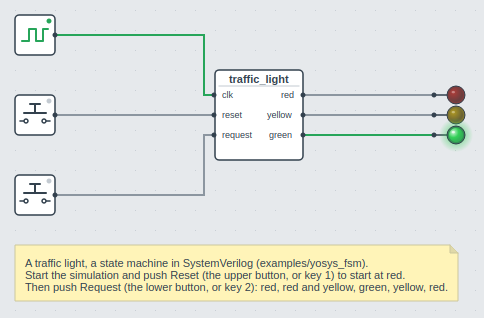
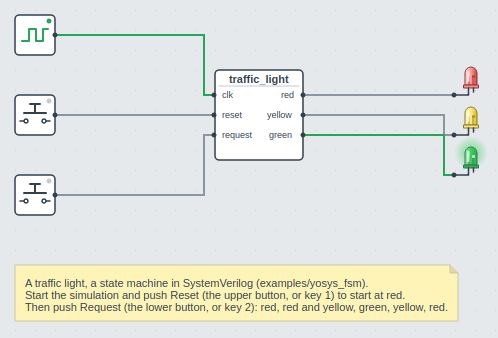
Draw an LED standing, seen from the side, like a real 5 mm LED
A round dot didn't look like an LED. Now it has a dome, a rim and legs, the
post and the chip show inside, and it is pale when off and bright with a
glow when lit. The examples are lined up with its input again, and the
traffic light stands as a column.

Changed region(s): [[0.0, 0.0283, 0.9917, 0.6792], [0.031, 0.7642, 0.9607, 0.9623]]

diff --git a/src/digsim/app/gui_objects/_theme.py b/src/digsim/app/gui_objects/_theme.py
@@ -12,7 +12,16 @@ symbol only. Components that are a device, like a switch or a display, have a wh
 from __future__ import annotations
 
 from PySide6.QtCore import QPointF, QRectF, Qt
-from PySide6.QtGui import QBrush, QColor, QFont, QPainter, QPainterPath, QPen, QRadialGradient
+from PySide6.QtGui import (
+    QBrush,
+    QColor,
+    QFont,
+    QLinearGradient,
+    QPainter,
+    QPainterPath,
+    QPen,
+    QRadialGradient,
+)
 
 
 # Lines and text
@@ -103,41 +112,60 @@ def dim(color: QColor, factor: float = 0.3, toward: QColor | None = None) -> QCo
     )
 
 
-def paint_led(painter: QPainter, center: QPointF, radius: float, color: QColor, lit: bool) -> None:
+def paint_led(
+    painter: QPainter, center_x: float, top: float, color: QColor, lit: bool, selected: bool
+) -> float:
     """
-    A round LED seen from above: a rim, a lens with a highlight, and a glow around it
-    when it is lit
+    A 5 mm LED from the side, standing: a dome on a body, the rim at its base, and the
+    post and the cup with the chip inside. Lit, it is bright and glows. Returns the y of
+    the base, where the legs start.
     """
+    white = QColor("#ffffff")
+    half = 6.0
+    body = QRectF(center_x - half, top, 2 * half, 18)
     if lit:
-        glow = QRadialGradient(center, radius * 1.9)
+        glow = QRadialGradient(QPointF(center_x, top + half), 17)
         glow_color = QColor(color)
-        glow_color.setAlpha(110)
-        glow.setColorAt(0.45, glow_color)
+        glow_color.setAlpha(120)
+        glow.setColorAt(0.3, glow_color)
         glow_color.setAlpha(0)
         glow.setColorAt(1.0, glow_color)
         painter.setPen(Qt.PenStyle.NoPen)
         painter.setBrush(QBrush(glow))
-        painter.drawEllipse(center, radius * 1.9, radius * 1.9)
-    # The rim
-    painter.setPen(ink_pen(1.0))
-    painter.setBrush(dim(color, 0.55, INK) if lit else dim(color, 0.35))
-    painter.drawEllipse(center, radius, radius)
-    # The lens
-    lens = QRadialGradient(center - QPointF(radius * 0.3, radius * 0.3), radius)
+        painter.drawEllipse(QPointF(center_x, top + half), 17, 17)
+    # The dome and the body
+    path = QPainterPath(QPointF(body.left(), body.bottom()))
+    path.lineTo(body.left(), body.top() + half)
+    path.arcTo(QRectF(body.left(), body.top(), 2 * half, 2 * half), 180, -180)
+    path.lineTo(body.right(), body.bottom())
+    path.closeSubpath()
+    fill = QLinearGradient(QPointF(body.left(), 0), QPointF(body.right(), 0))
     if lit:
-        lens.setColorAt(0.0, dim(color, 0.25, QColor("#ffffff")))
-        lens.setColorAt(0.6, color)
-        lens.setColorAt(1.0, dim(color, 0.8, INK))
+        fill.setColorAt(0.0, dim(color, 0.45, white))
+        fill.setColorAt(0.5, color)
+        fill.setColorAt(1.0, dim(color, 0.75, INK))
     else:
-        lens.setColorAt(0.0, dim(color, 0.6))
-        lens.setColorAt(1.0, dim(color, 0.25))
+        fill.setColorAt(0.0, dim(color, 0.25, white))
+        fill.setColorAt(0.5, dim(color, 0.5, white))
+        fill.setColorAt(1.0, dim(color, 0.8, INK))
+    painter.setPen(outline_pen(True) if selected else ink_pen(1.0, dim(color, 0.4, INK)))
+    painter.setBrush(QBrush(fill))
+    painter.drawPath(path)
+    # Inside: the post, and the cup with the chip
+    painter.setPen(ink_pen(1.0, dim(color, 0.5, INK)))
+    painter.drawLine(QPointF(center_x - 2, body.bottom()), QPointF(center_x - 2, top + 10))
+    painter.drawLine(QPointF(center_x + 2, body.bottom()), QPointF(center_x + 2, top + 11))
     painter.setPen(Qt.PenStyle.NoPen)
-    painter.setBrush(QBrush(lens))
-    painter.drawEllipse(center, radius * 0.78, radius * 0.78)
-    # The highlight
-    shine = QColor(255, 255, 255, 170 if lit else 90)
-    painter.setBrush(shine)
-    painter.drawEllipse(center - QPointF(radius * 0.3, radius * 0.32), radius * 0.2, radius * 0.14)
+    painter.setBrush(white if lit else dim(color, 0.5, INK))
+    painter.drawRect(QRectF(center_x + 1, top + 8.5, 3, 2))
+    # The shine
+    painter.setBrush(QColor(255, 255, 255, 170))
+    painter.drawRoundedRect(QRectF(body.left() + 2, top + 4, 2.5, 11), 1, 1)
+    # The rim at the base
+    painter.setPen(ink_pen(1.0, dim(color, 0.4, INK)))
+    painter.setBrush(dim(color, 0.75, INK) if lit else dim(color, 0.6, white))
+    painter.drawRect(QRectF(body.left() - 1.5, body.bottom(), 2 * half + 3, 3))
+    return body.bottom() + 3
 
 
 def paint_bar_led(painter: QPainter, rect: QRectF, color: QColor, lit: bool) -> None:

diff --git a/src/digsim/app/gui_objects/_symbol_objects.py b/src/digsim/app/gui_objects/_symbol_objects.py
@@ -368,16 +368,22 @@ class MuxObject(SymbolObject):
 
 
 class LedObject(SymbolObject):
-    """An LED: a lead from the input to a round LED, in the color of the component"""
+    """
+    An LED standing, seen from the side, in the color of the component. Its long leg
+    bends to the input, below it.
+    """
 
-    RADIUS = 9.0
+    WIDTH = 26
+    HEIGHT = 40
+    # From the top to the input
+    PORT_Y = 30
 
     def __init__(
         self, app_model: AppModel, component: Component, xpos: float, ypos: float
     ) -> None:
         super().__init__(app_model, component, xpos, ypos)
-        self.width = 32
-        self.height = 20
+        self.width = self.WIDTH
+        self.height = self.HEIGHT
         self.update_ports()
 
     @property
@@ -386,22 +392,32 @@ class LedObject(SymbolObject):
         assert isinstance(component, Led)
         return component
 
+    def update_ports(self) -> None:
+        super().update_ports()
+        # The input below the middle, where the leg of the LED bends to it
+        item = self.get_port_item(self.component.I)
+        port_rect = item.rect()
+        port_rect.moveTop(self.rect().top() + self.PORT_Y - self.PORT_SIDE / 2)
+        item.setRect(port_rect)
+
     @classmethod
     def paint_led(
         cls, painter: QPainter, rect: QRectF, color: str, lit: bool, selected: bool
     ) -> None:
-        """The lead and the LED"""
-        center = QPointF(rect.right() - cls.RADIUS - 2, rect.center().y())
-        theme.lead(
-            painter,
-            QPointF(rect.left() - 1, center.y()),
-            QPointF(center.x() - cls.RADIUS, center.y()),
+        """The LED and its legs"""
+        center_x = rect.left() + 16
+        base = theme.paint_led(
+            painter, center_x, rect.top() + 2, theme.led_color(color), lit, selected
         )
-        theme.paint_led(painter, center, cls.RADIUS, theme.led_color(color), lit)
-        if selected:
-            painter.setPen(theme.outline_pen(True))
-            painter.setBrush(Qt.BrushStyle.NoBrush)
-            painter.drawEllipse(center, cls.RADIUS + 3, cls.RADIUS + 3)
+        port_y = rect.top() + cls.PORT_Y
+        painter.setPen(theme.ink_pen())
+        painter.setBrush(Qt.BrushStyle.NoBrush)
+        # The long leg (anode) to the input, the short one (cathode) beside it
+        anode = QPainterPath(QPointF(center_x - 2.5, base))
+        anode.lineTo(center_x - 2.5, port_y)
+        anode.lineTo(rect.left() - 1, port_y)
+        painter.drawPath(anode)
+        painter.drawLine(QPointF(center_x + 2.5, base), QPointF(center_x + 2.5, port_y - 3))
 
     def paint_component(self, painter: QPainter) -> None:
         self.paint_led(
@@ -416,9 +432,9 @@ class LedObject(SymbolObject):
     def paint_selectable_component(cls, painter: QPainter, size: QSize, name: str) -> None:
         def paint(rect: QRectF) -> None:
             cls.paint_led(painter, rect, "red", True, False)
-            port_dots(painter, [QPointF(rect.left() - 1, rect.center().y())])
+            port_dots(painter, [QPointF(rect.left() - 1, rect.top() + cls.PORT_Y)])
 
-        paint_icon(painter, size, (32, 20), paint, scale=1.4)
+        paint_icon(painter, size, (cls.WIDTH, cls.HEIGHT), paint, scale=1.4)
         cls.paint_selectable_component_name(painter, QPointF(0, 0), size, name)
 
 
